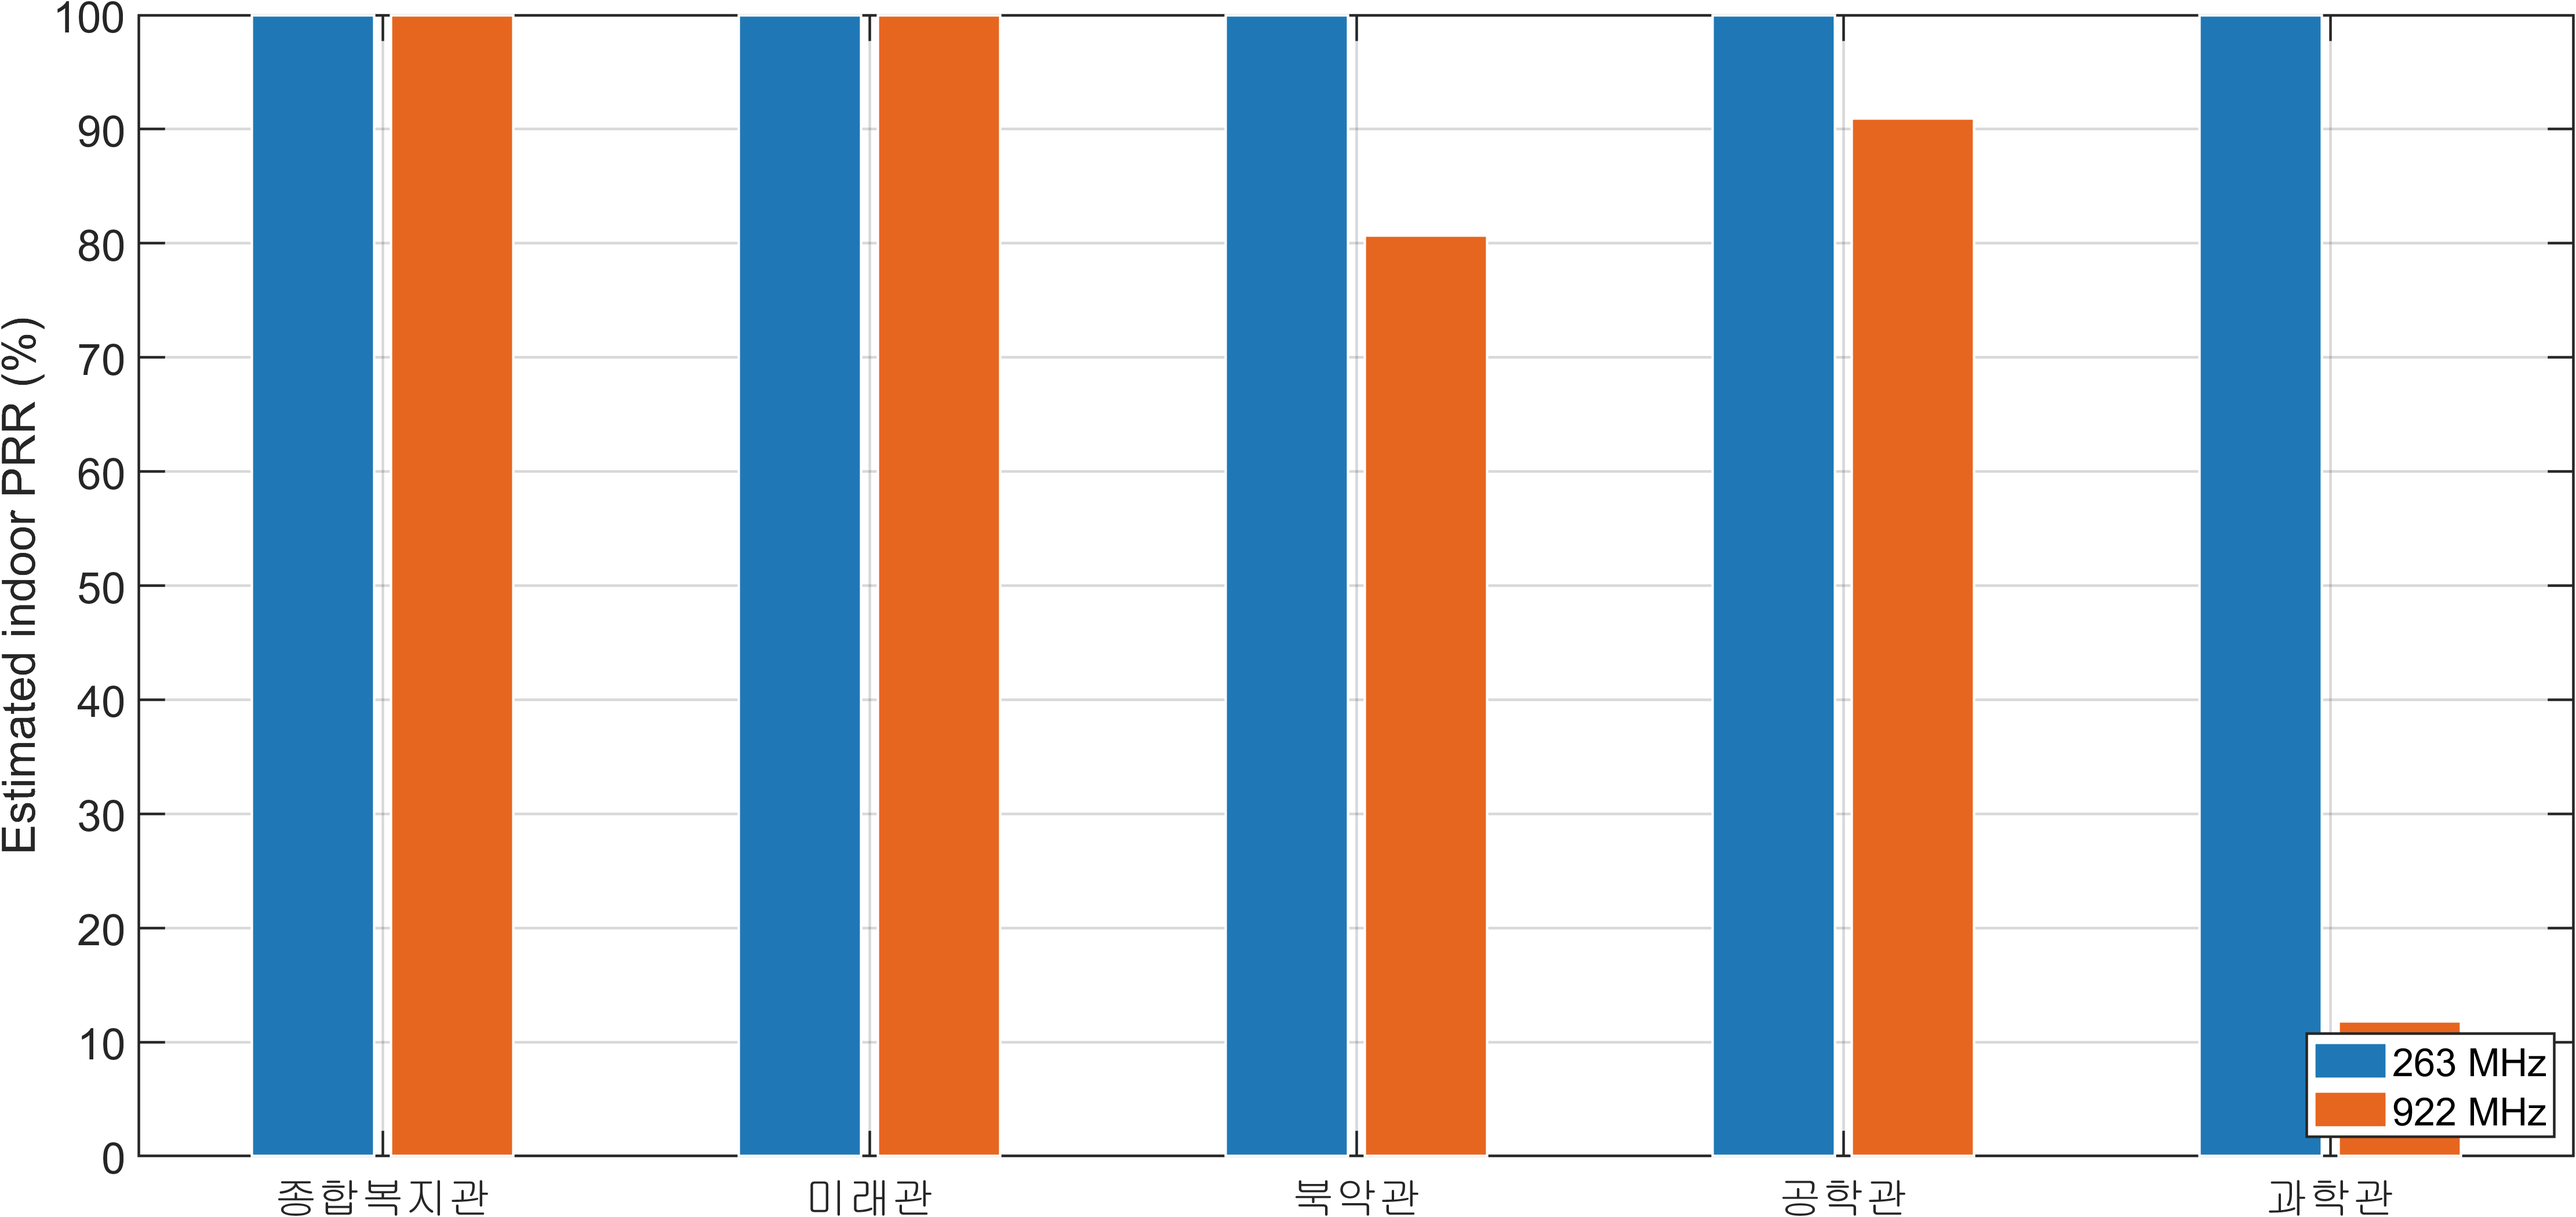
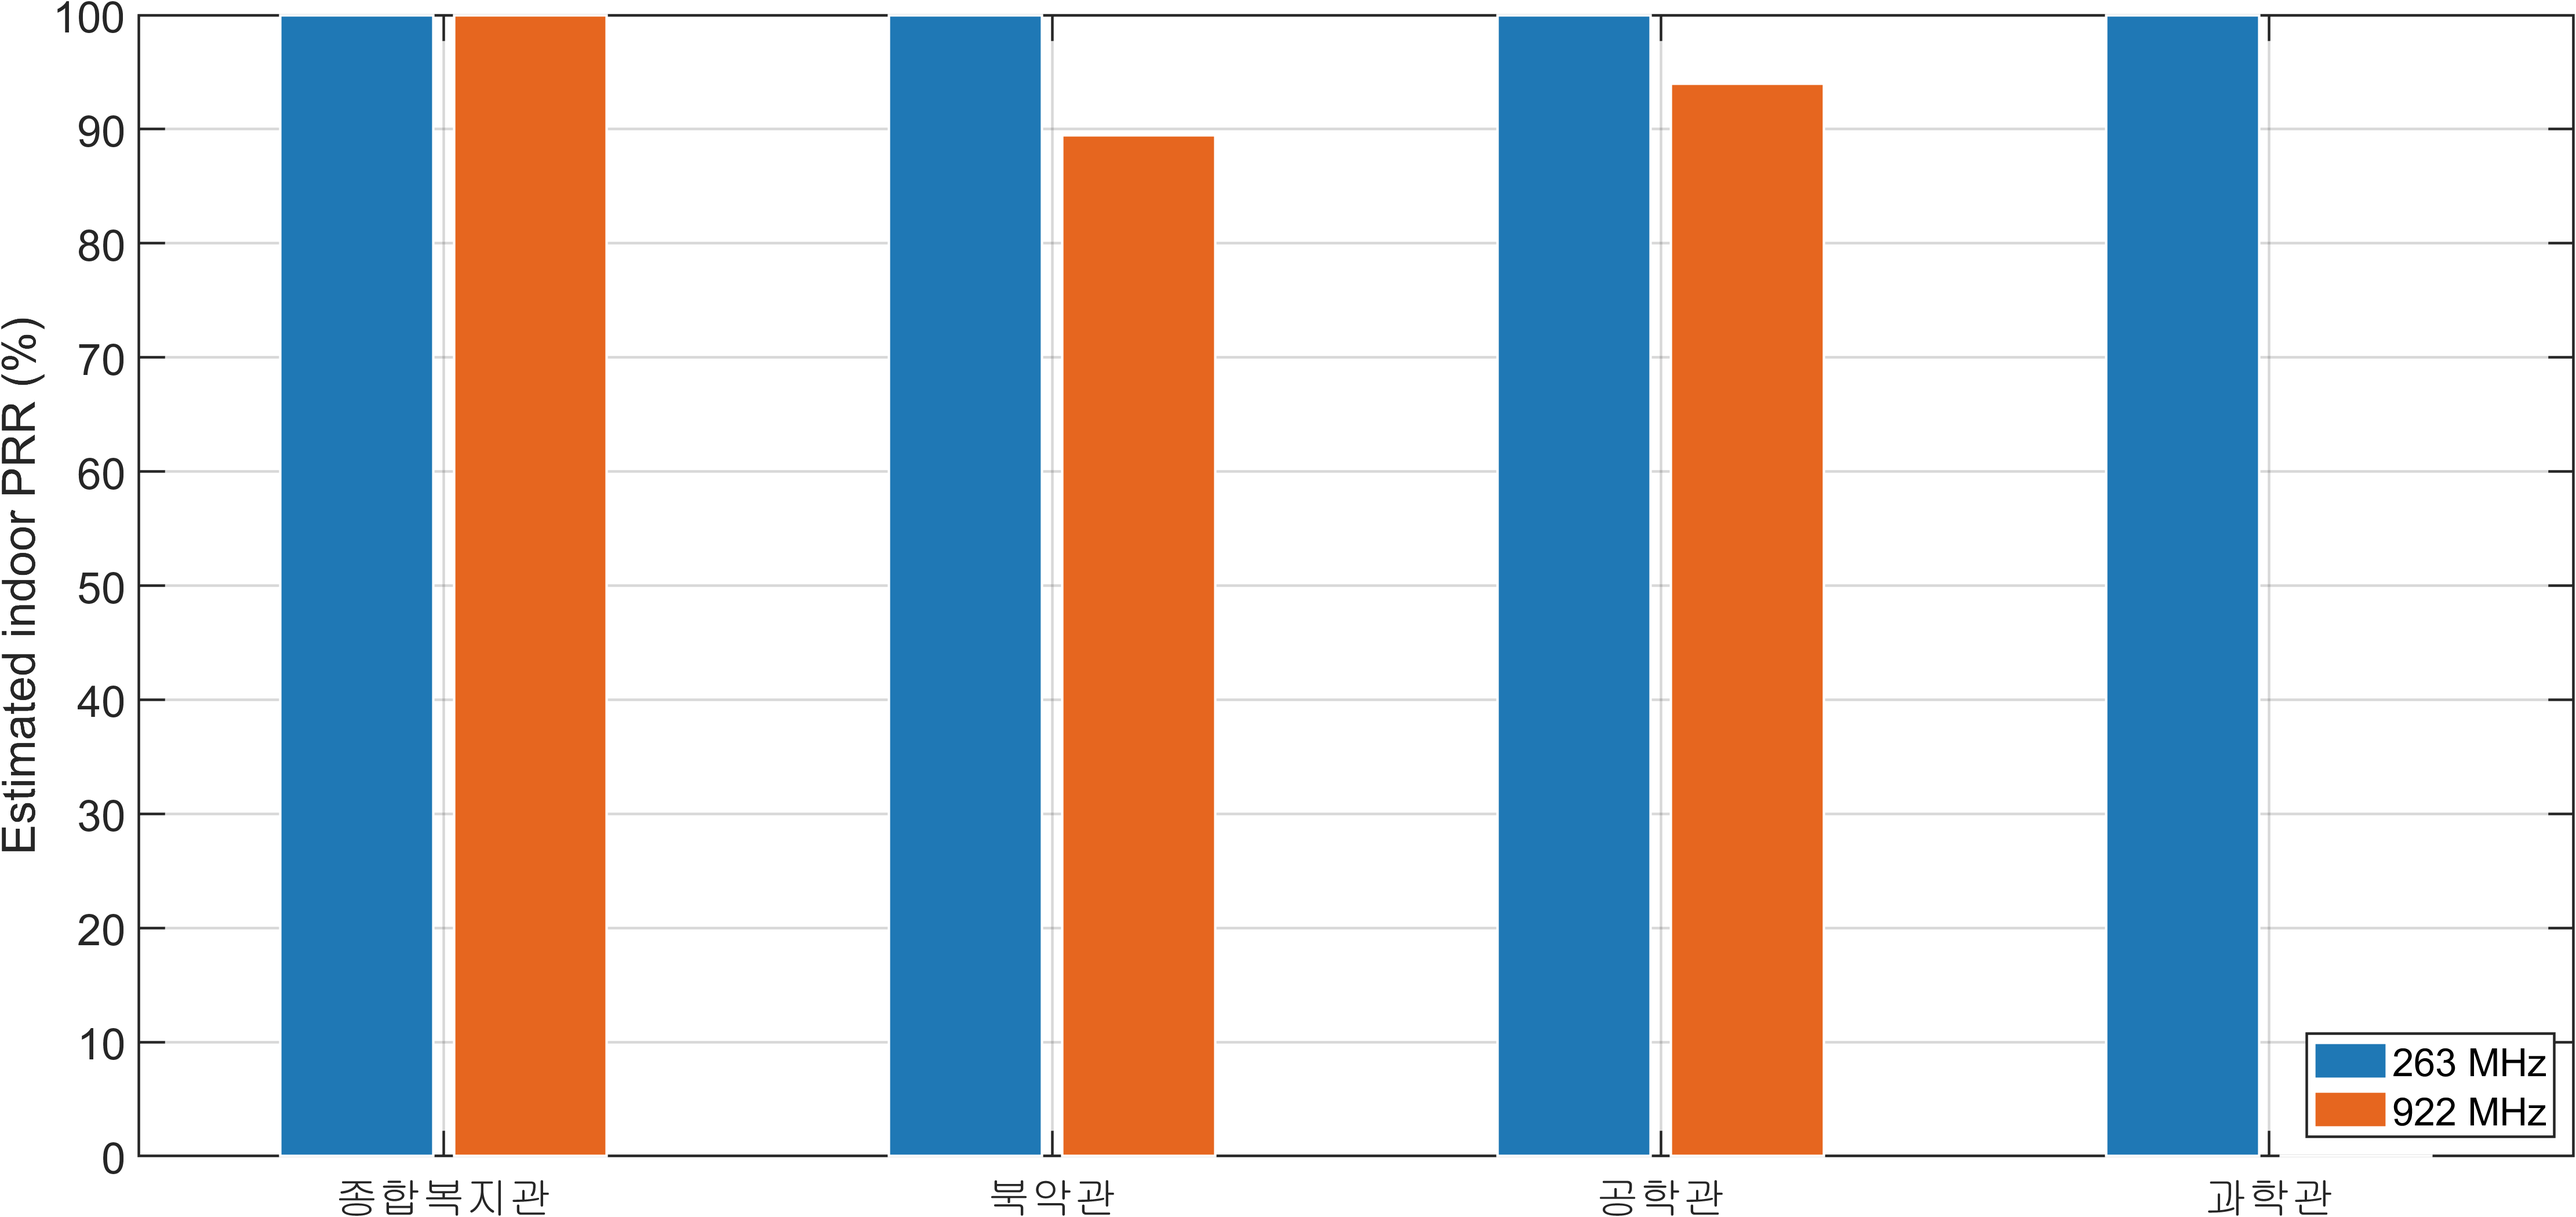
1117_save

diff --git a/results/run_prr_awgn_scenario.m b/results/run_prr_awgn_scenario.m
@@ -12,7 +12,7 @@ cfg.noiseFigure_dB = 6;
 cfg.assumedInterferencePower_dBm = -65; % deliberately strong scenario assumption
 cfg.preambleSymbols = 6;                % LoRaPHY.m constructor default
 cfg.randomSeed = 20261117;
-cfg.snrGrid_dB = -12:1:-4;
+cfg.snrGrid_dB = -10:1:-4;
 cfg.packetsPerSNR = 100;                % Monte Carlo packets per curve point
 
 rssFile = fullfile(outDir,"building_rss_values.csv");
@@ -23,7 +23,9 @@ assert(isfile(rssFile) && isfile(nodeFile) && isfile(osmFile), ...
 assert(isfile(fullfile(rootDir,"LoRaPHY.m")),"LoRaPHY.m is missing.");
 
 R = readtable(rssFile,TextType="string");
-nodes = readtable(nodeFile,TextType="string");
+nodeOpts=detectImportOptions(nodeFile,TextType="string");
+nodeOpts=setvartype(nodeOpts,"OSM_ID","string");
+nodes=readtable(nodeFile,nodeOpts);z
 thermalNoise_dBm = -174 + 10*log10(cfg.bandwidthHz) + cfg.noiseFigure_dB;
 totalNoise_dBm = 10*log10(10^(thermalNoise_dBm/10) + ...
     10^(cfg.assumedInterferencePower_dBm/10));
@@ -148,14 +150,22 @@ for ki=1:numel(kinds)
         try, ax.Toolbar.Visible="off"; catch, end
         for ni=1:height(sub)
             ri=find(R.NodeID==sub.NodeID(ni) & R.Frequency_Hz==freqs(fi),1);
-            oi=find(string(osm.ID)==string(sub.OSM_ID(ni)),1);
-            if isempty(ri)||isempty(oi)||~isfinite(R.Estimated_PRR_percent(ri)), continue; end
+            % Prefer the full OSM feature ID (relations may be stored as a
+            % composite ID); fall back to matching individual member ways.
+            osmId=strtrim(string(sub.OSM_ID(ni)));
+            ois=find(strtrim(string(osm.ID))==osmId);
+            if isempty(ois)
+                osmIds=split(osmId,":");
+                ois=find(ismember(strtrim(string(osm.ID)),osmIds));
+            end
+            if isempty(ri)||isempty(ois)||~isfinite(R.Estimated_PRR_percent(ri)), continue; end
             p=R.Estimated_PRR_percent(ri);
             ci=max(1,min(256,round(1+255*(p-prrDisplayLimits(1))/(prrDisplayLimits(2)-prrDisplayLimits(1)))));
-            geoplot(ax,osm.Shape(oi),FaceColor=cmap(ci,:),FaceAlpha=1.0, ...
-                EdgeColor=[0.1 0.1 0.1],LineStyle="-",LineWidth=0.9);
+            for oi=ois(:)'
+                geoplot(ax,osm.Shape(oi),FaceColor=cmap(ci,:),FaceAlpha=1.0, ...
+                    EdgeColor=[0.1 0.1 0.1],LineStyle="-",LineWidth=0.9);
+            end
             name=sub.BuildingName(ni);
-            if R.RSS_Method(ri)~="Ray tracing", name="~"+name; end
             text(ax,sub.Latitude(ni),sub.Longitude(ni),name,FontSize=7, ...
                 Color="k",FontWeight="bold",Interpreter="none");
         end
@@ -175,10 +185,9 @@ end
 cb=colorbar; cb.Layout.Tile="east"; cb.Label.String="Estimated PRR (%)"; cb.Limits=prrDisplayLimits; cb.Ticks=60:2:100;
 exportgraphics(fig,fullfile(outDir,"prr_node_maps.png"),Resolution=300); close(fig);
 
-% Indoor-only comparison for five selected buildings, styled after reference p.37.
+% Indoor-only comparison for four selected buildings, styled after reference p.37.
 selectedBuildings=[ ...
     string(char([hex2dec("C885") hex2dec("D569") hex2dec("BCF5") hex2dec("C9C0") hex2dec("AD00")])); ... % Welfare
-    string(char([hex2dec("BBF8") hex2dec("B798") hex2dec("AD00")])); ... % Mirae
     string(char([hex2dec("BD81") hex2dec("C545") hex2dec("AD00")])); ... % Bugak
     string(char([hex2dec("ACF5") hex2dec("D559") hex2dec("AD00")])); ... % Gonghak
     string(char([hex2dec("ACFC") hex2dec("D559") hex2dec("AD00")]))]; % Gwahak
